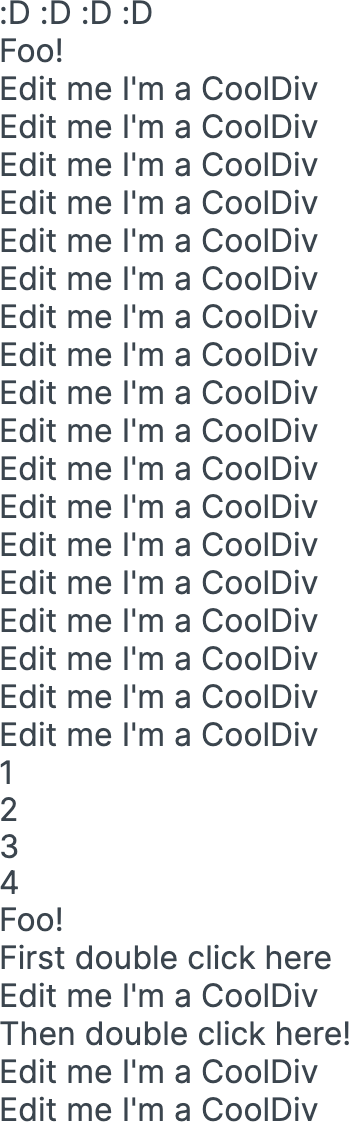
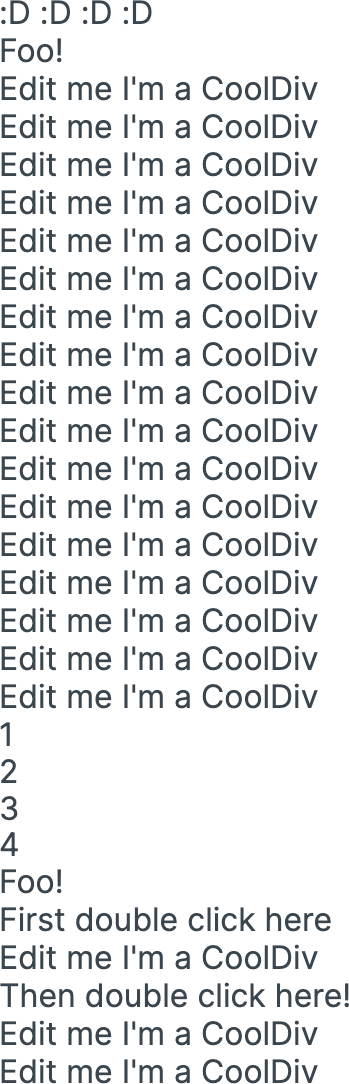
[ecu] Delete component App in App

Changed region(s): [[0.0, 0.0304, 1.0, 1.0], [0.5731, 0.0609, 0.9169, 0.6697], [0.3438, 0.0609, 0.5444, 0.6697]]

diff --git a/app/src/App.tsx b/app/src/App.tsx
@@ -54,7 +54,7 @@ function App(props: AppPropsType) {
       
       
       
-      <CoolDiv />
+      
       <CoolDiv />
       <CoolDiv />
       <CoolDiv />
